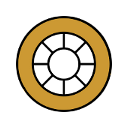
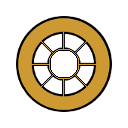
Added logic to let player last attacking player get gold from killed unit weapon data tweaks knob texture tweak

diff --git a/BattleshipsGDX/src/com/battleships/base/Cruiser.java b/BattleshipsGDX/src/com/battleships/base/Cruiser.java
@@ -15,13 +15,15 @@ public class Cruiser extends Unit {
 	private String lane;
 	private Unit Target = null;
 	private Vector2 vecToTarget = new Vector2(0,0);
+	private PlayerShip lastPlayerAttacker = null;
+	private float lastPlayerAttack = 0;
 	
 	Cruiser(String Team, float InitialX, float InitialY, String Lane)
     {
 		super(Team, InitialX, InitialY);
 		lane = Lane;
     	baseSprite.setScale(0.75f);
-    	MaxHealth = 250;
+    	MaxHealth = 500;
     	Health = MaxHealth;
     	visor = new Visor(this);
     	gun = new Weapon(this,0);
@@ -59,7 +61,17 @@ public class Cruiser extends Unit {
 	
     void TakeDamage(int Damage, Unit Instigator)
     {
-    	super.TakeDamage(Damage, Instigator);
+    	if(Instigator instanceof PlayerShip)
+    	{
+    		lastPlayerAttacker = ((PlayerShip)Instigator);
+    		lastPlayerAttack = 1;
+    	}
+
+    	if(Health > 0 && Health - Damage <= 0 && lastPlayerAttacker != null)
+    	{
+    		lastPlayerAttacker.PlayerGold += this.goldworth;
+    	}
+    	Health -= Damage;
     	
     	if(gun.Enemies.size()==0 && Target == null)
     	{
@@ -76,6 +88,11 @@ public class Cruiser extends Unit {
 	
 	void onUpdate(float delta)
     {
+		if(lastPlayerAttack>0)
+			lastPlayerAttack -= delta;
+		else
+			lastPlayerAttacker = null;
+		
     	gun.onUpdate(delta);
 		updateVelocity();
 

diff --git a/BattleshipsGDX/src/com/battleships/base/Tower.java b/BattleshipsGDX/src/com/battleships/base/Tower.java
@@ -16,7 +16,7 @@ public class Tower extends Unit {
     	MaxHealth = 5000;
     	Health = MaxHealth;
     	visor = new Visor(this);
-    	gun = new PlayerWeapon(this,9);
+    	gun = new TowerCannon(this);
     	CollisionBody.setType(BodyType.StaticBody);
     	this.setPosition(CollisionBody.getPosition().x*GameScreen.BOX_WORLD_TO,CollisionBody.getPosition().y*GameScreen.BOX_WORLD_TO);
 	}
@@ -31,5 +31,18 @@ public class Tower extends Unit {
         		getX()-16+1,getY()+32,32*((float)Health/(float)MaxHealth),4);
         
 		onUpdate(Gdx.graphics.getDeltaTime());
+	}
+	
+	private class TowerCannon extends Weapon {	
+	public TowerCannon(Unit o) {
+			super(o, 1);
+			// TODO Auto-generated constructor stub
+		}	
+		void defaultProperties()
+		{
+			FireDelay = 1;
+			Range = 1200/6;
+			Damage = 50;
+		}
 	}
 }

diff --git a/BattleshipsGDX/src/com/battleships/base/PlayerShip.java b/BattleshipsGDX/src/com/battleships/base/PlayerShip.java
@@ -20,7 +20,7 @@ public class PlayerShip extends Unit {
     {
 		super(Team, InitialX, InitialY);
     	moveSpeed = 150;
-    	MaxHealth = 2500;
+    	MaxHealth = 500;
     	Health = MaxHealth;
     	switch(slot) {
 			case 0 : colorSprite.setColor(com.badlogic.gdx.graphics.Color.MAGENTA); break;
@@ -33,8 +33,7 @@ public class PlayerShip extends Unit {
     	}
     	visor = new Visor(this);
     	setVisualRotation(CurrentVelocity.x, CurrentVelocity.y);
-    	Inventory.add(new PlayerWeapon(this, 8));
-    	Inventory.add(new PlayerWeapon(this, 8));
+    	Inventory.add(new PlayerWeapon(this, 2));
     }
 	
 	void setVelocity()

diff --git a/BattleshipsGDX/src/com/battleships/base/GameScreen.java b/BattleshipsGDX/src/com/battleships/base/GameScreen.java
@@ -390,7 +390,7 @@ public class GameScreen implements Screen {
 		while(iter.hasNext())
 		{
 			current = iter.next();
-			current.onUpdate(BOX_STEP);
+			current.onUpdate(BOX_STEP/2);
 			
 			if(current.Health<=0)
 			{

diff --git a/BattleshipsGDX/src/com/battleships/base/NetworkGameScreen.java b/BattleshipsGDX/src/com/battleships/base/NetworkGameScreen.java
@@ -94,7 +94,7 @@ public class NetworkGameScreen extends GameScreen{
 				}
 				if(message != null) {
 					
-					rdyToHalfStep = true;
+					//rdyToHalfStep = true;
 					
 					stepNow = true;
 					
